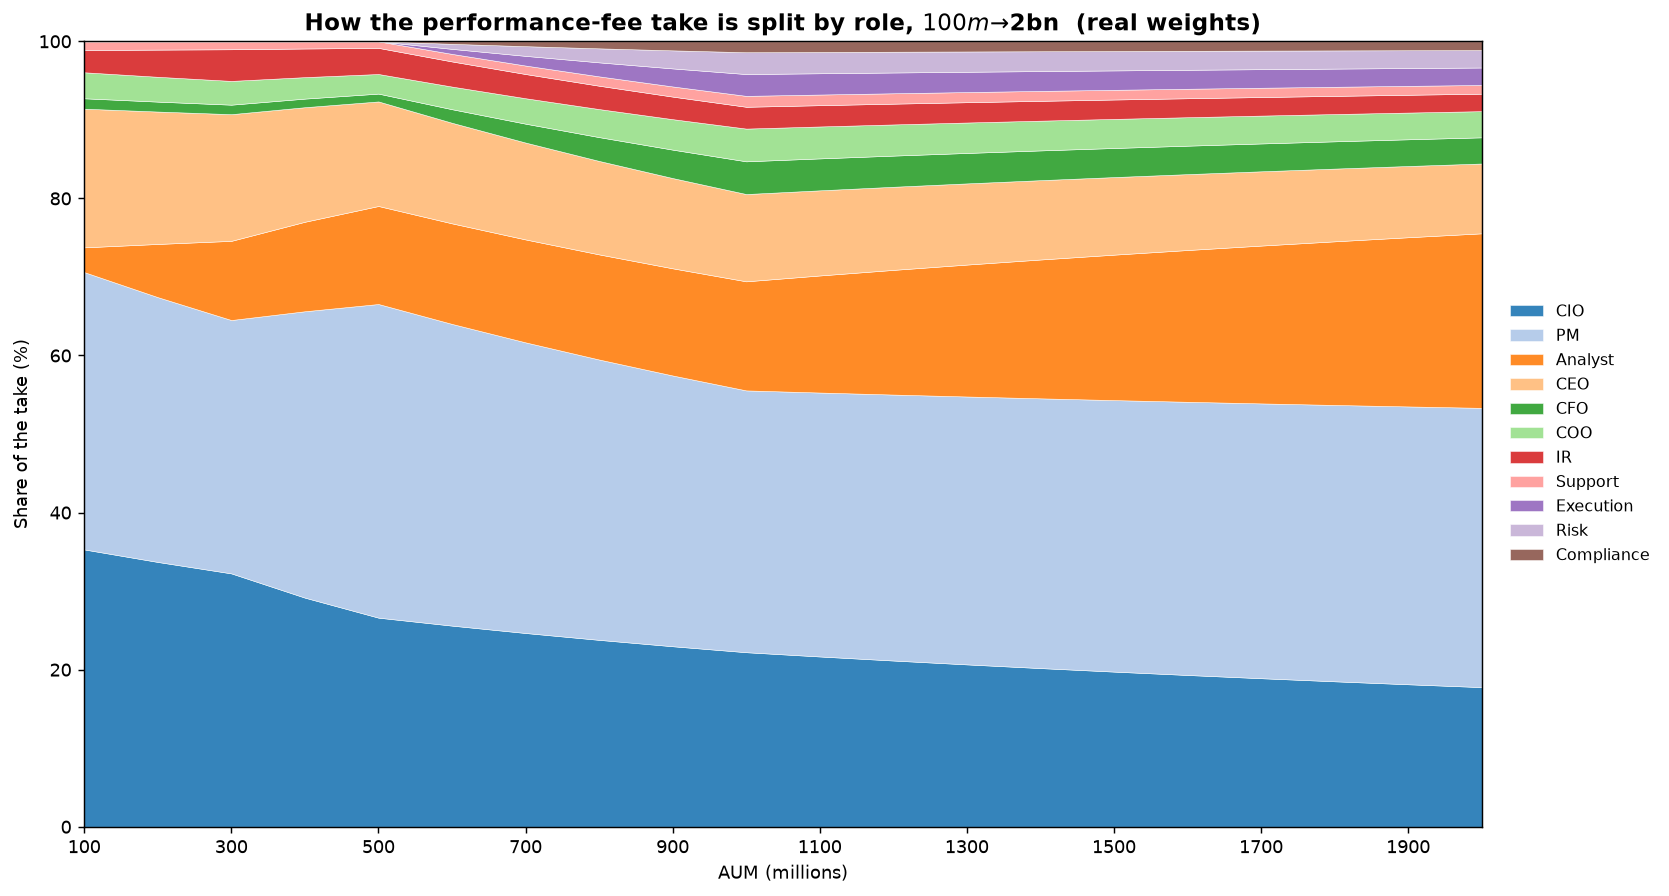
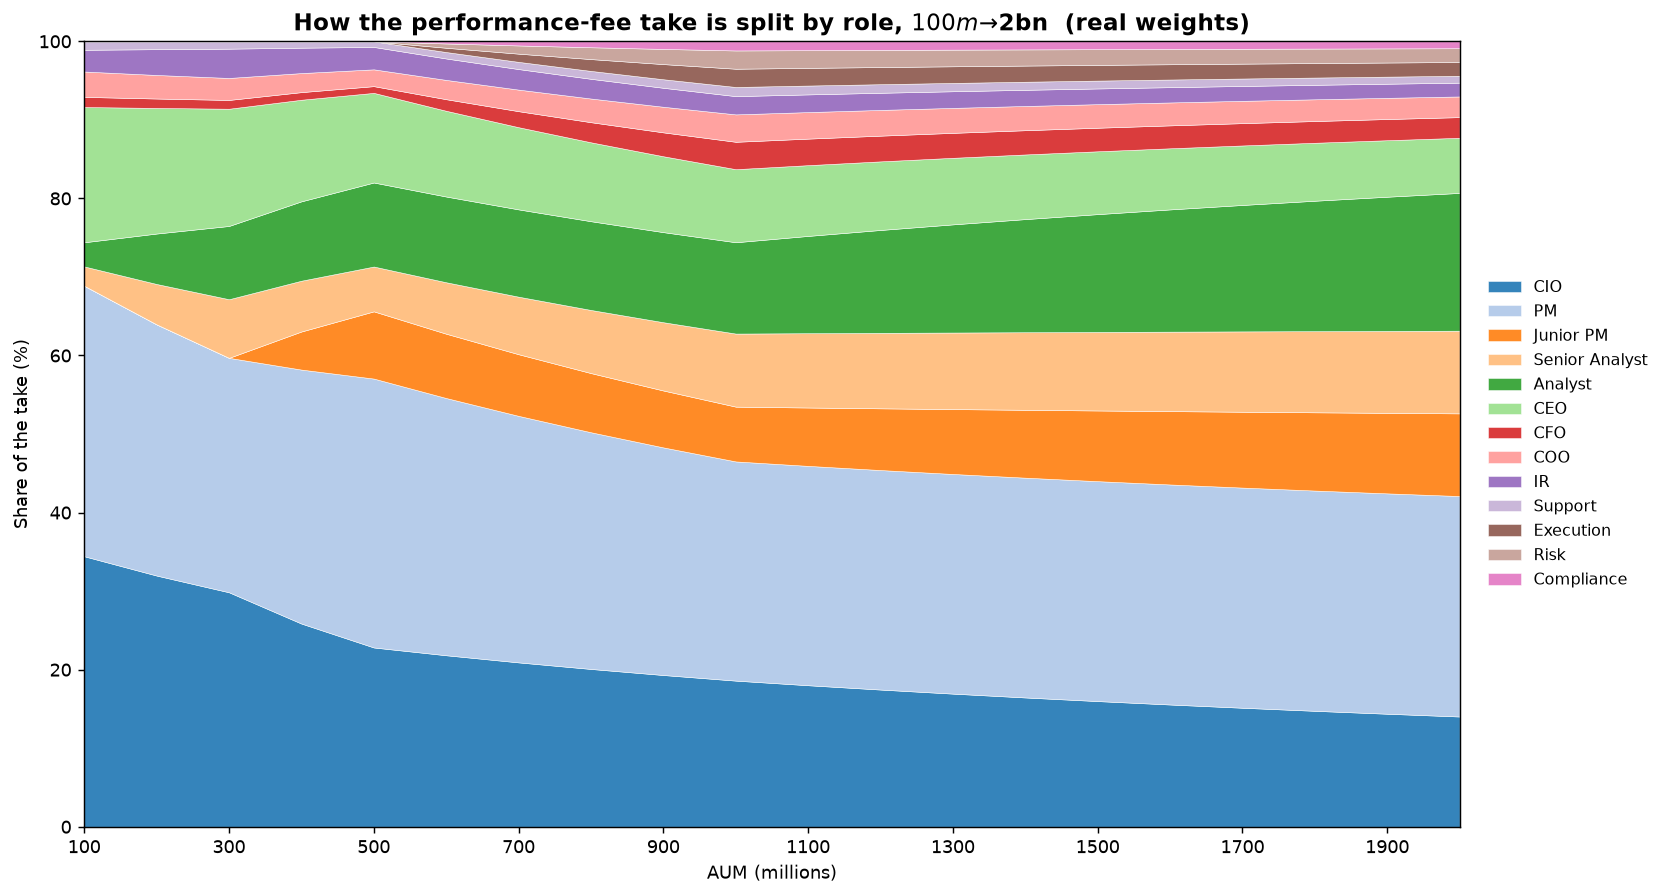
Add Junior PM (weight 6) and Senior Analyst (weight 4) roles
Inserts two new investment-track rungs between PM and Analyst, filling the
2.5->8 weight gap: Junior PM weight 6, Senior Analyst weight 4. Illustrative
headcount ramp (Senior Analyst from $300m, Junior PM from $500m) and
placeholder tiered salaries, all editable. Regenerates Static sheet and both
share/per-person analyses. Total units now 43.6/53.6/70.1/86/114/114 across
scenarios; ladder reads Analyst 2.5 -> Sr Analyst 4 -> Junior PM 6 -> PM 8.

Claude-Session: https://claude.ai/code/session_01K14qB8MpeJ8Pk8H1GeEUV4

diff --git a/build_all_real.py b/build_all_real.py
@@ -17,6 +17,8 @@ scn_aum=[20,300,500,1000,2000,5000]
 roles=[
  ("CIO",       0.20,0.30,16, [1,1,1,1,1,1]),
  ("PM",        0.13,0.20, 8, [2,2,3,3,4,4]),
+ ("Junior PM", 0.10,0.20, 6, [0,0,1,1,2,2]),
+ ("Senior Analyst",0.05,0.20,4,[0,1,1,2,3,3]),
  ("Analyst",   0.00,0.20,2.5,[0,2,3,4,8,8]),
  ("CEO",       0.15,0.30, 8, [1,1,1,1,1,1]),
  ("CFO",       0.10,0.15, 3, [0.2,0.2,0.2,1,1,1]),